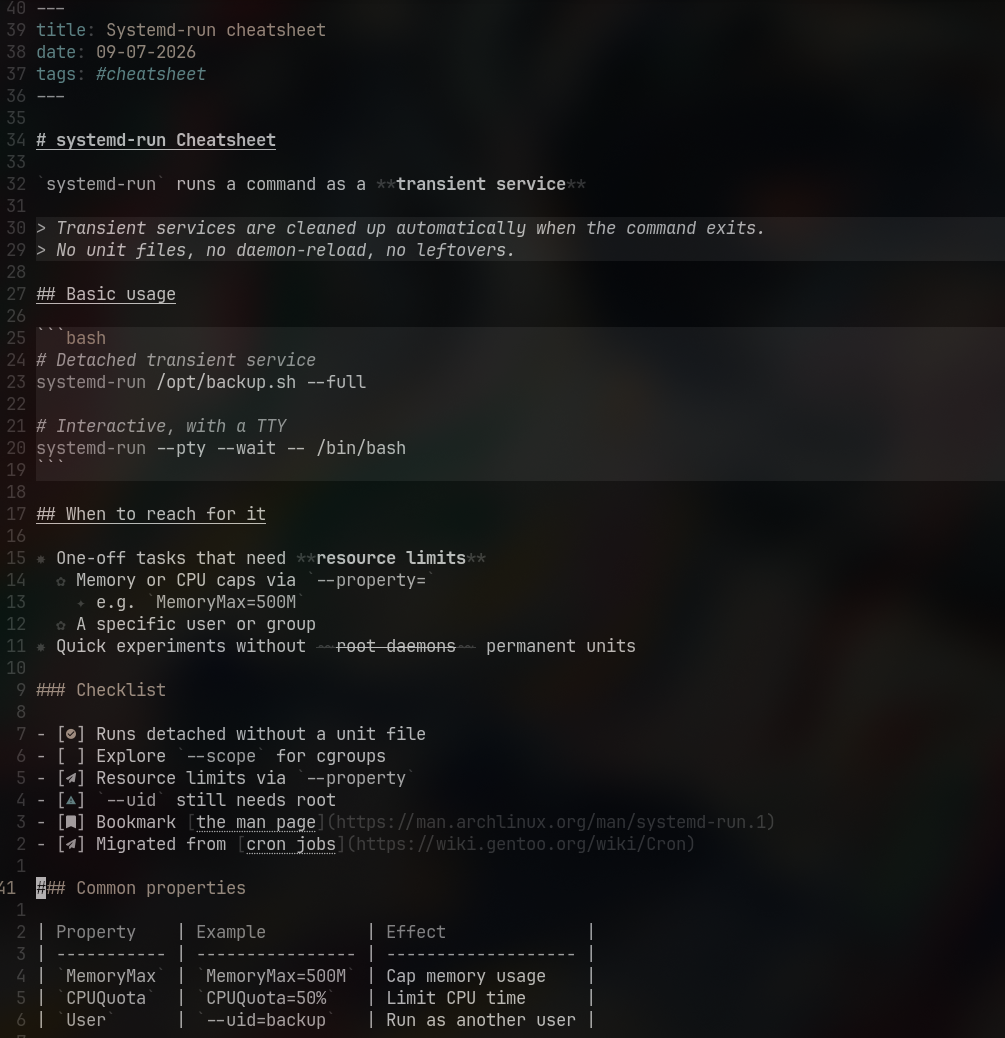
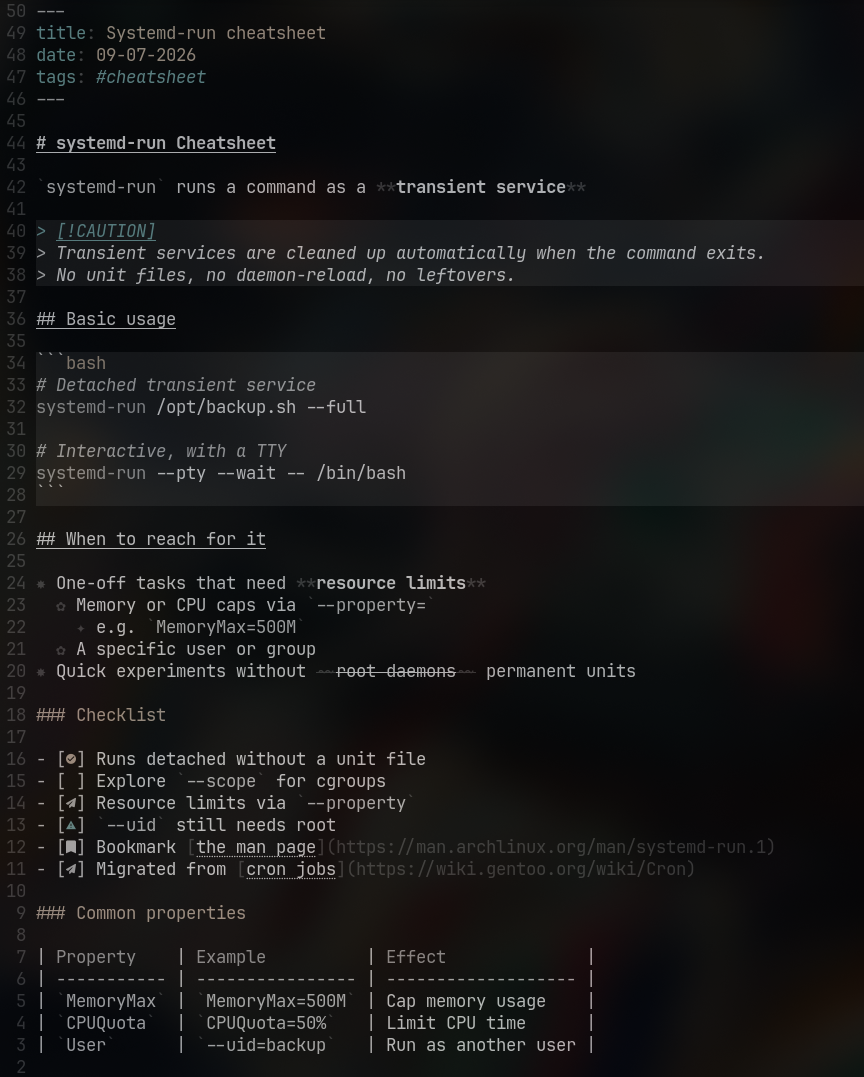
adm: Add GFI admonition type-colored labels
- New admonitions.lua: detects [!TYPE] in blockquotes and colors
  the label per type using Diagnostic* links (NOTE=blue, TIP=green,
  WARNING/IMPORTANT=yellow, CAUTION/ERROR=red)
- Unknown types fall back to NOTE color
- Regular hl_group extmarks preserve the quote background

diff --git a/README.md b/README.md
@@ -12,7 +12,8 @@ Most markdown plugins make notes prettier by hiding things: URLs collapse, multi
 - Checkboxes show obsidian-style state icons inside the brackets: `[x]`, `[ ]`, `[!]`, `[>]` and more.
 - Code blocks and block quotes get a subtle background. Quotes also render in cursive.
 - `**`, `~~` and backtick markers are dimmed, not hidden.
-- Link brackets, parents and URLs are dimmed
+- Link brackets, parens and URLs are dimmed so labels read like prose.
+- GFI admonitions (`[!NOTE]`, `[!WARNING]`, etc.) get type-colored labels.
 - H1 and H2 get underlines. The `#` markers stay where they are.
 - Enter continues a list item (a checkbox item continues unchecked). Enter on an empty item exits the list.
 